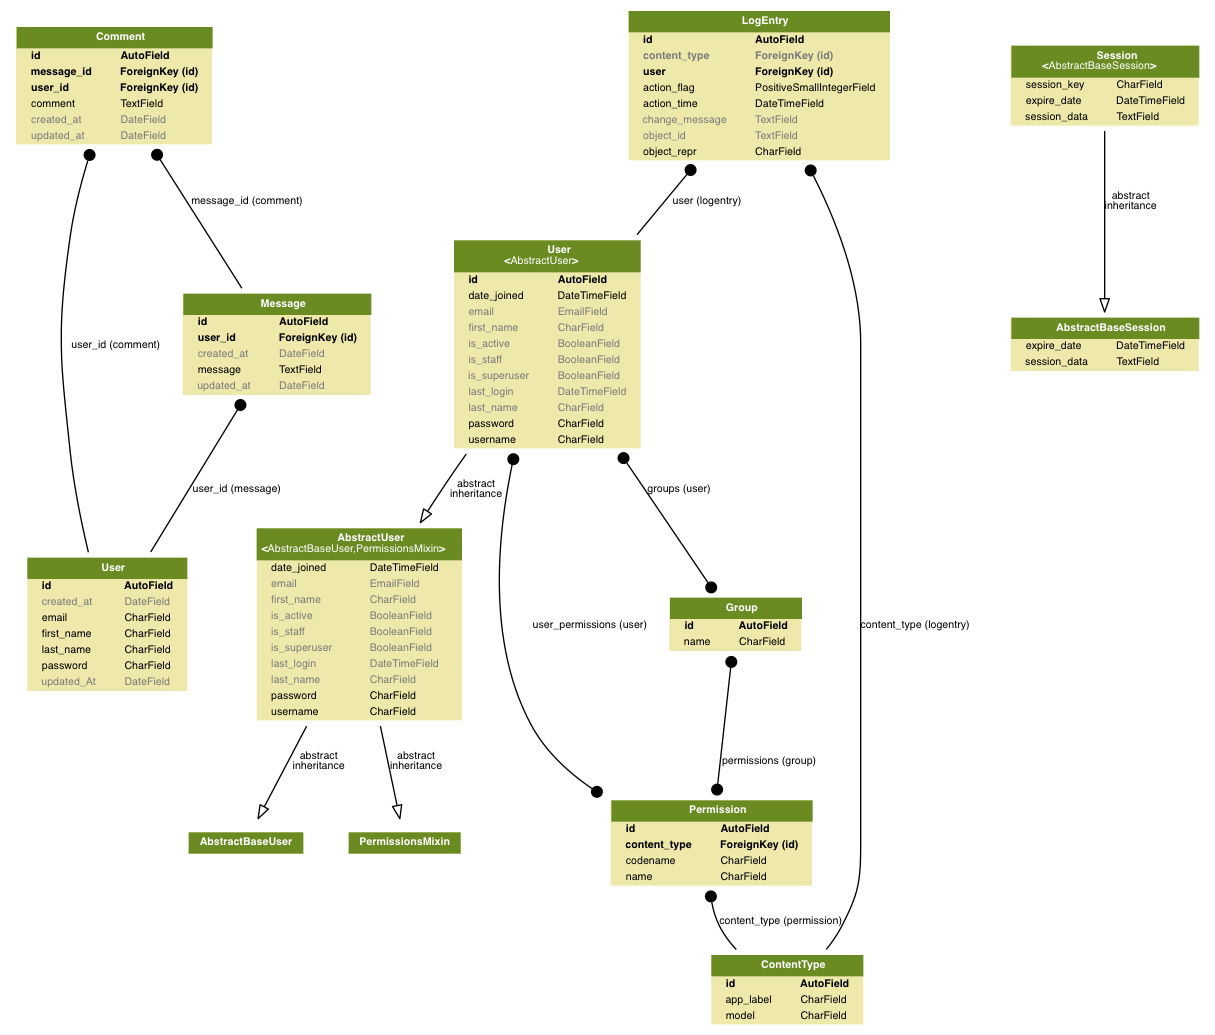
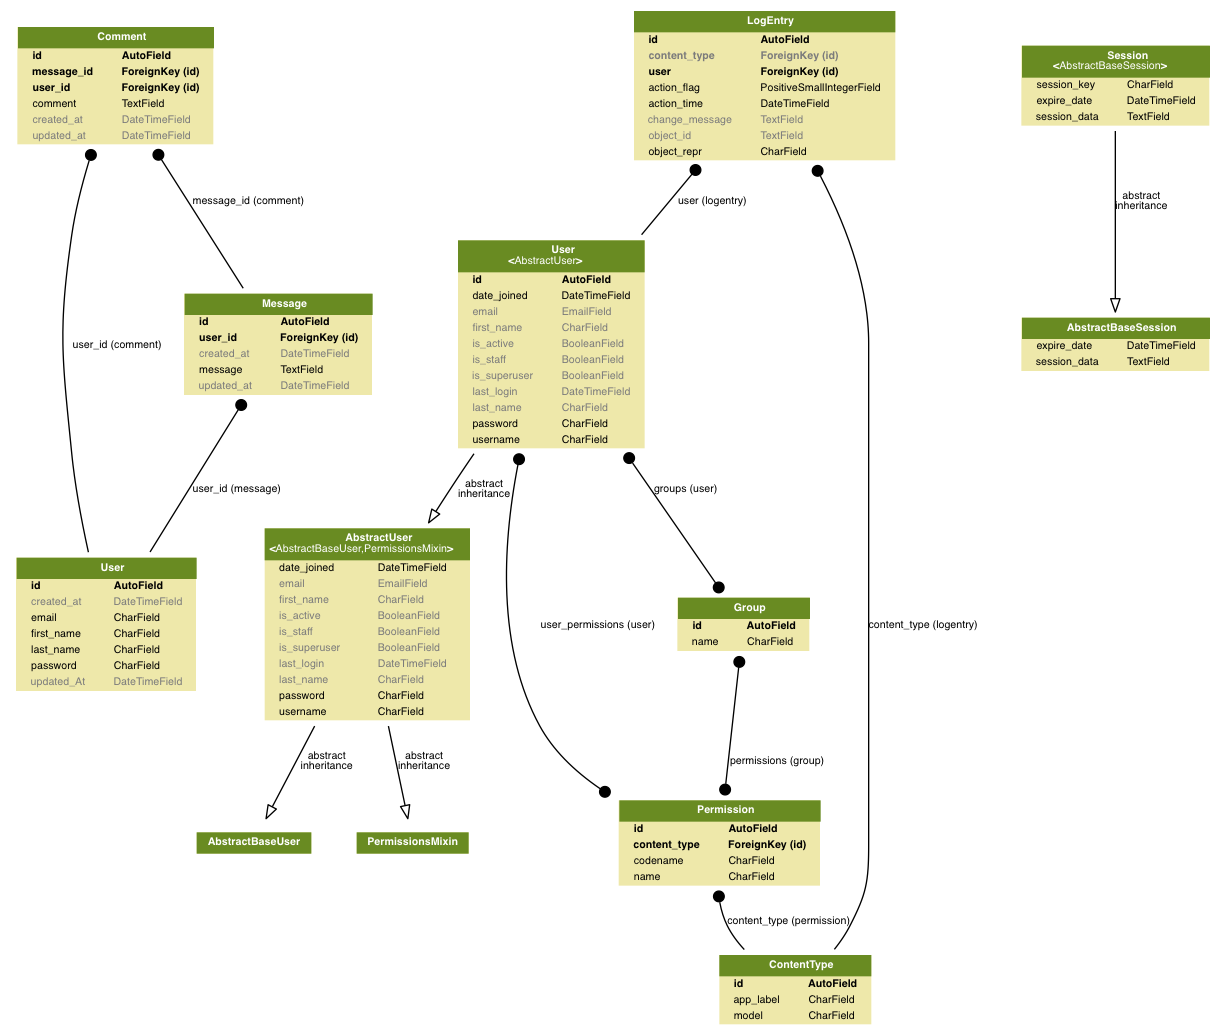
updated model to use date-time-field

diff --git a/PYTHON-DJANGO/wall_erd_assignment/apps/wall_erd/migrations/0002_auto_20170204_2250.py b/PYTHON-DJANGO/wall_erd_assignment/apps/wall_erd/migrations/0002_auto_20170204_2250.py
@@ -1,0 +1,45 @@
+# -*- coding: utf-8 -*-
+# Generated by Django 1.10.5 on 2017-02-04 22:50
+from __future__ import unicode_literals
+
+from django.db import migrations, models
+
+
+class Migration(migrations.Migration):
+
+    dependencies = [
+        ('wall_erd', '0001_initial'),
+    ]
+
+    operations = [
+        migrations.AlterField(
+            model_name='comment',
+            name='created_at',
+            field=models.DateTimeField(auto_now_add=True),
+        ),
+        migrations.AlterField(
+            model_name='comment',
+            name='updated_at',
+            field=models.DateTimeField(auto_now=True),
+        ),
+        migrations.AlterField(
+            model_name='message',
+            name='created_at',
+            field=models.DateTimeField(auto_now_add=True),
+        ),
+        migrations.AlterField(
+            model_name='message',
+            name='updated_at',
+            field=models.DateTimeField(auto_now=True),
+        ),
+        migrations.AlterField(
+            model_name='user',
+            name='created_at',
+            field=models.DateTimeField(auto_now_add=True),
+        ),
+        migrations.AlterField(
+            model_name='user',
+            name='updated_At',
+            field=models.DateTimeField(auto_now=True),
+        ),
+    ]

diff --git a/PYTHON-DJANGO/wall_erd_assignment/apps/wall_erd/models.py b/PYTHON-DJANGO/wall_erd_assignment/apps/wall_erd/models.py
@@ -8,22 +8,22 @@ class User(models.Model):
     last_name = models.CharField(max_length=255)
     email = models.CharField(max_length=255)
     password = models.CharField(max_length=255)
-    created_at = models.DateField(auto_now_add=True)
-    updated_At = models.DateField(auto_now=True)
+    created_at = models.DateTimeField(auto_now_add=True)
+    updated_At = models.DateTimeField(auto_now=True)
 
 
 class Message(models.Model):
 
     message = models.TextField(max_length=1000)
-    created_at = models.DateField(auto_now_add=True)
-    updated_at = models.DateField(auto_now=True)
+    created_at = models.DateTimeField(auto_now_add=True)
+    updated_at = models.DateTimeField(auto_now=True)
     user_id = models.ForeignKey(User)
 
 
 class Comment(models.Model):
 
     comment = models.TextField(max_length=1000)
-    created_at = models.DateField(auto_now_add=True)
-    updated_at = models.DateField(auto_now=True)
+    created_at = models.DateTimeField(auto_now_add=True)
+    updated_at = models.DateTimeField(auto_now=True)
     message_id = models.ForeignKey(Message)
     user_id = models.ForeignKey(User)
